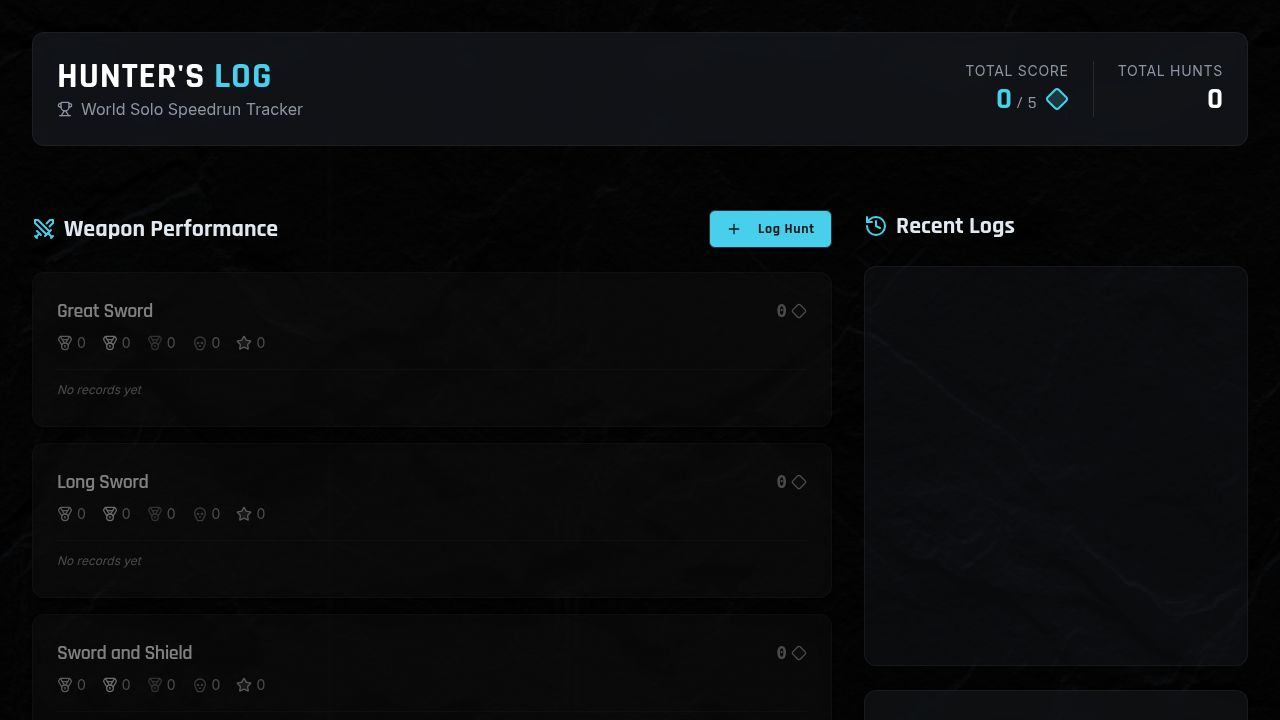
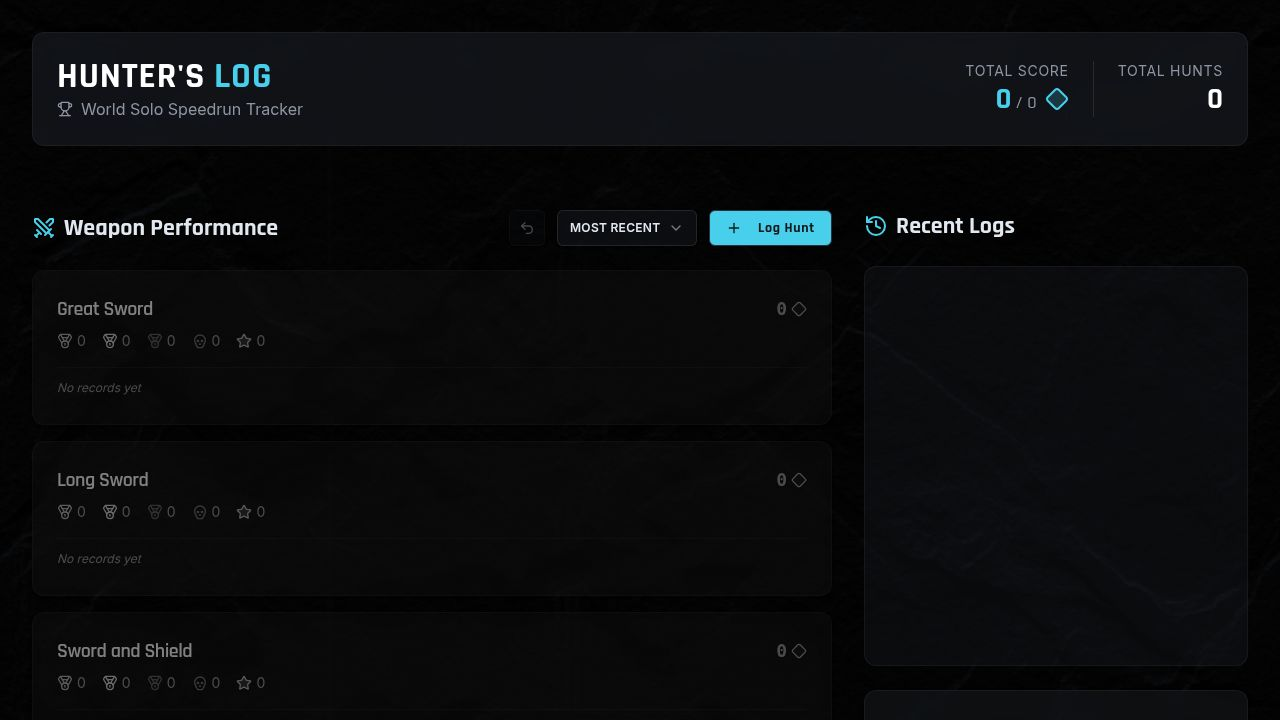
Add functionality to undo recent changes to hunt data
Introduces an undo button and history management to revert hunt log entries, including total hunts and points, by saving previous states in a history array and utilizing the `Undo2` icon from `lucide-react`.

Replit-Commit-Author: Agent
Replit-Commit-Session-Id: 3506b91a-8d23-454a-8618-01b12eeb58fd
Replit-Commit-Checkpoint-Type: full_checkpoint
Replit-Commit-Event-Id: 93e1682c-3d66-45d7-ac14-61ea4af89544
Replit-Commit-Screenshot-Url: https://storage.googleapis.com/screenshot-production-us-central1/9945052e-8cee-4e2a-b413-c20988c903f2/3506b91a-8d23-454a-8618-01b12eeb58fd/Bbv0mcW
Replit-Helium-Checkpoint-Created: true

diff --git a/client/src/pages/dashboard.tsx b/client/src/pages/dashboard.tsx
@@ -7,7 +7,7 @@ import {
 import { 
   Skull, Medal, Star, Diamond, 
   Plus, Trophy, History, Swords,
-  TrendingUp, TrendingDown, RotateCcw, Trash2
+  TrendingUp, TrendingDown, RotateCcw, Trash2, Undo2
 } from "lucide-react";
 import { Card, CardContent, CardHeader, CardTitle } from "@/components/ui/card";
 import { Button } from "@/components/ui/button";
@@ -75,6 +75,9 @@ export default function Dashboard() {
   }, [hunts]);
 
   const [isAddOpen, setIsAddOpen] = useState(false);
+  
+  // History for Undo functionality
+  const [history, setHistory] = useState<HuntRecord[][]>([]);
 
   // Form State
   const [selectedMonster, setSelectedMonster] = useState(MONSTERS[0].id);
@@ -252,6 +255,9 @@ export default function Dashboard() {
     };
 
     setHunts(prev => {
+      // Save to history before modifying
+      setHistory(h => [...h, prev]);
+      
       const newHunts = [...prev];
       if (existingHuntIndex !== -1) {
         // Update existing
@@ -267,7 +273,15 @@ export default function Dashboard() {
     setTimeInput("");
   };
 
+  const handleUndo = () => {
+    if (history.length === 0) return;
+    const previous = history[history.length - 1];
+    setHunts(previous);
+    setHistory(h => h.slice(0, -1));
+  };
+
   const handleReset = () => {
+    setHistory(h => [...h, hunts]); // Save current state before reset
     setHunts(INITIAL_HUNTS);
     localStorage.removeItem("mhw-hunts");
   };
@@ -352,6 +366,17 @@ export default function Dashboard() {
               <Swords className="w-6 h-6 text-primary" /> Weapon Performance
             </h2>
             <div className="flex items-center gap-3">
+              <Button 
+                variant="outline" 
+                size="icon"
+                onClick={handleUndo}
+                disabled={history.length === 0}
+                className="bg-background/50 border-white/10 h-9 w-9 hover:bg-white/10 disabled:opacity-30"
+                title="Undo last action"
+              >
+                <Undo2 className="w-4 h-4 text-slate-200" />
+              </Button>
+
               <Select value={sortBy} onValueChange={(v: any) => setSortBy(v)}>
                 <SelectTrigger className="w-[140px] bg-background/50 border-white/10 h-9 text-xs font-bold uppercase tracking-wide">
                   <SelectValue placeholder="Sort By" />